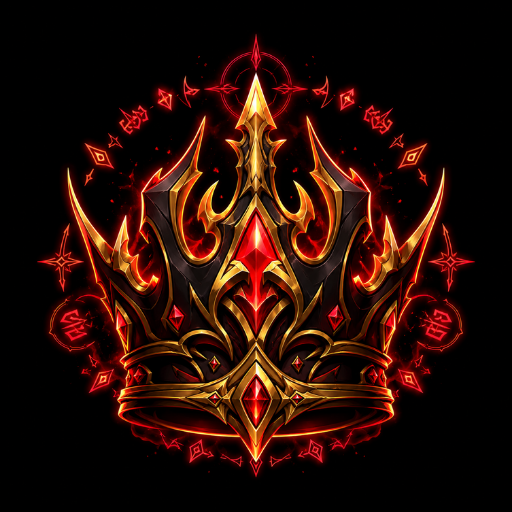
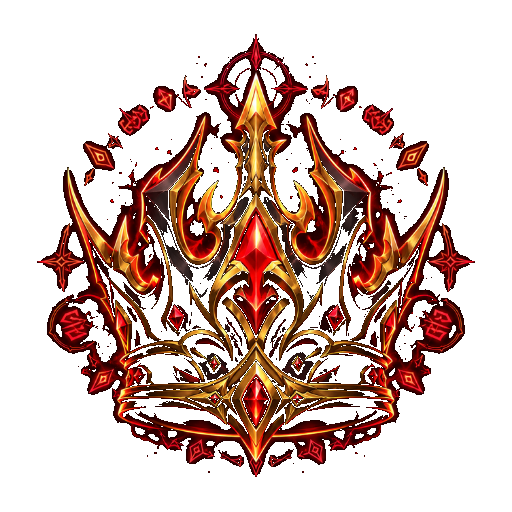
fix: Baş Admin ikonu boyutu biraz küçültüldü ve siyah olan arka planı Python betiği ile silinerek şeffaf PNG'ye dönüştürüldü

diff --git a/src/components/UserBadges.jsx b/src/components/UserBadges.jsx
@@ -77,7 +77,7 @@ export default function UserBadges({ user, showCrown = false, showGem = true, cl
           whileHover={{ scale: 1.2 }}
           className="relative group cursor-pointer flex items-center justify-center p-0.5 outline-none"
         >
-          <div className="flex items-center justify-center shrink-0 w-10 h-10 md:w-12 md:h-12">
+          <div className="flex items-center justify-center shrink-0 w-6 h-6 md:w-8 md:h-8">
              <img src="/basadminicon.png" alt="Baş Admin" className="w-full h-full object-contain drop-shadow-[0_0_10px_rgba(220,38,38,0.8)] mix-blend-screen" />
           </div>
           <div className="absolute -top-10 left-1/2 -translate-x-1/2 bg-card-navy text-white text-[9px] font-black py-1.5 px-3 rounded-lg opacity-0 group-hover:opacity-100 transition-all pointer-events-none uppercase tracking-widest whitespace-nowrap border border-red-500/50 z-[100] shadow-2xl scale-90 group-hover:scale-100 origin-bottom">

diff --git a/src/pages/ProfileShowcase.jsx b/src/pages/ProfileShowcase.jsx
@@ -963,7 +963,7 @@ export default function ProfileShowcase() {
                           <Gem size={28} className="text-cyan-400 animate-pulse drop-shadow-[0_0_10px_rgba(34,211,238,0.5)] shrink-0" />
                         )}
                         {['Baş Admin', 'Kurucu'].includes(displayUser.role) || displayUser.username === 'MAHORA' || displayUser.username === 'MAHORAPEAK' ? (
-                           <div className="flex items-center justify-center shrink-0 w-14 h-14 md:w-20 md:h-20 mr-2">
+                           <div className="flex items-center justify-center shrink-0 w-10 h-10 md:w-14 md:h-14 mr-1">
                               <img src="/basadminicon.png" alt="Kurucu" className="w-full h-full object-contain drop-shadow-[0_0_15px_rgba(220,38,38,0.9)] mix-blend-screen" />
                            </div>
                         ) : displayUser.is_elite ? (
